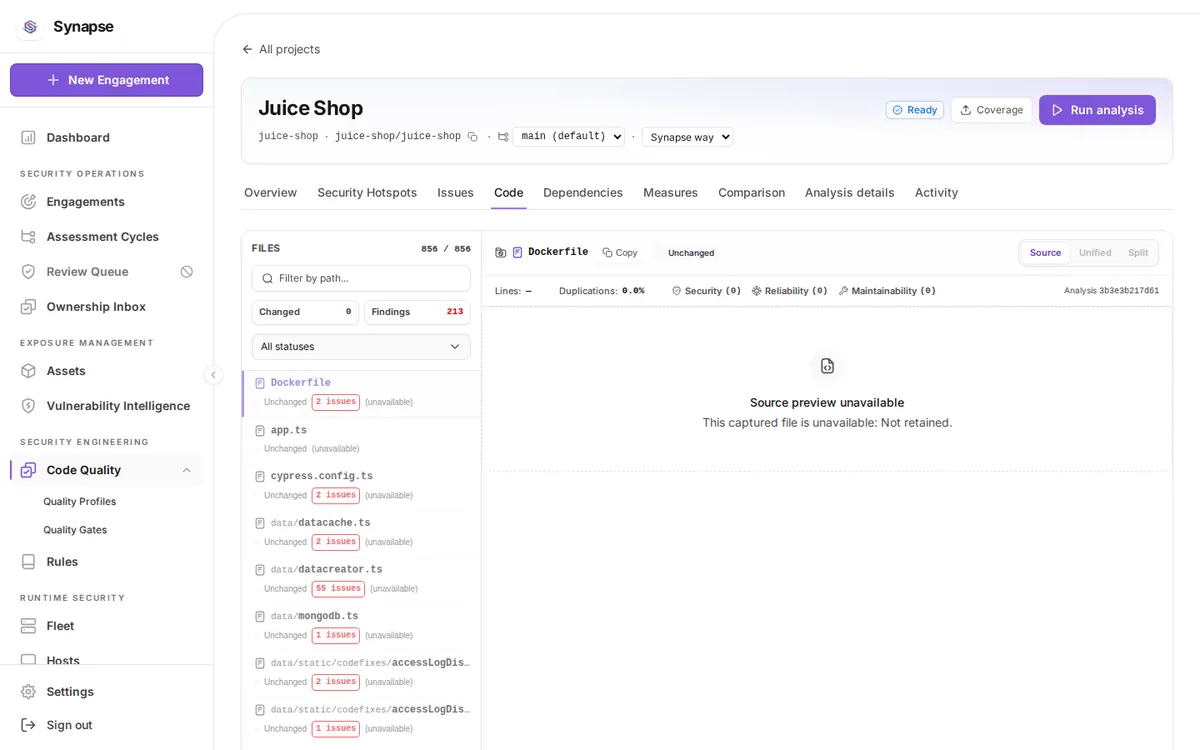
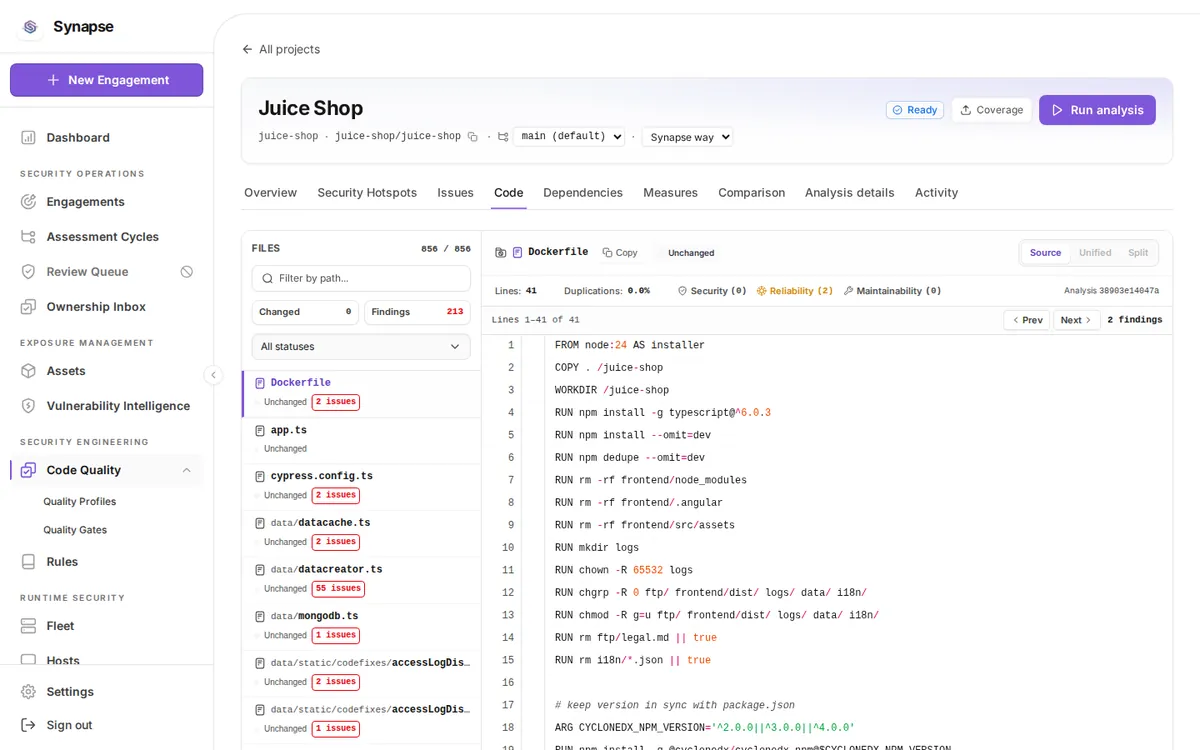
docs: recapture the code screen now that it can show code
The screenshot showed "Source preview unavailable: Not retained" under a caption
promising the analysed source annotated with its findings. The caption described
the product and the image described three bugs in publish-source, which could
not publish anything at the time it was taken.

Recaptured against the same stack after those were fixed: the file the analysis
inventoried, syntax highlighted, with its findings against the line numbers and
the per-file issue counts beside the tree.

The other screens are unchanged and the capture notes still describe the run that
produced them, so the figures quoted there still match their images. The note
says which screen was taken twice and why.

Also replaces an em dash used as a prose connector in the engagement-detail
heading, which the prose check rejects.

diff --git a/docs/guide/ui-walkthrough.md b/docs/guide/ui-walkthrough.md
@@ -23,6 +23,11 @@ real, produced by running the product rather than seeded into its tables:
 - a host reporting through `synapse-agent`;
 - six business assets and eight users.
 
+The Code screen was captured a second time, after `synapse-cli publish-source` was repaired. It
+could not publish anything before that, so the screen showed "Source preview unavailable: Not
+retained" beside a caption promising annotated source. It now shows the file the analysis
+inventoried, with its findings against the line numbers.
+
 Regenerate them with the dev server running and a token the backend accepts:
 
 ```bash
@@ -658,7 +663,7 @@ Per-person preferences and the session.
 
 ## Engagement detail
 
-`/engagements/{id}/{tab}` — twenty-eight tabs in five groups. The header carries `Build report`,
+`/engagements/{id}/{tab}`: twenty-eight tabs in five groups. The header carries `Build report`,
 `Export`, `Import`, `Scan settings` and `Run scan` on every tab, and the scan panel shows the
 pipeline stages with their timings.
 
